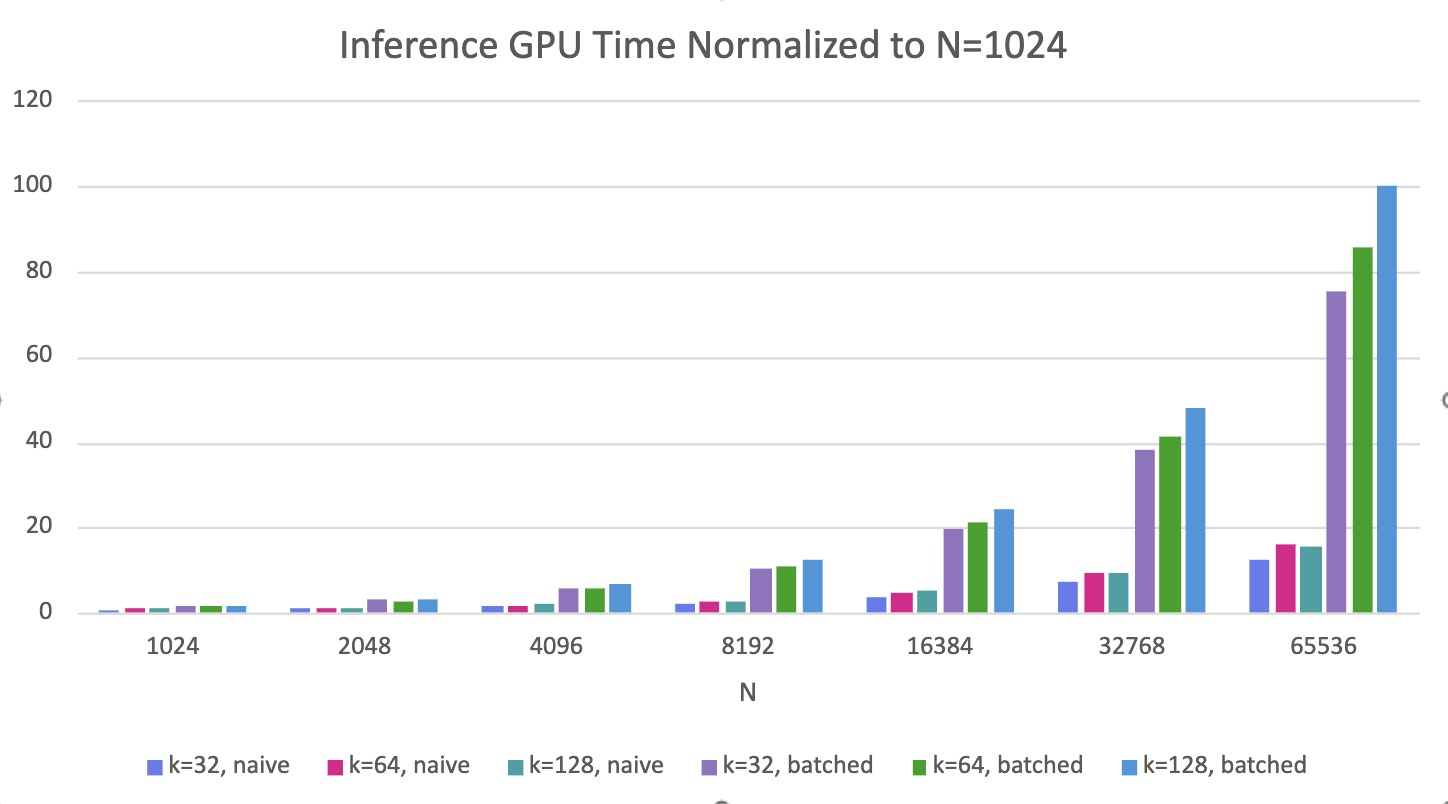
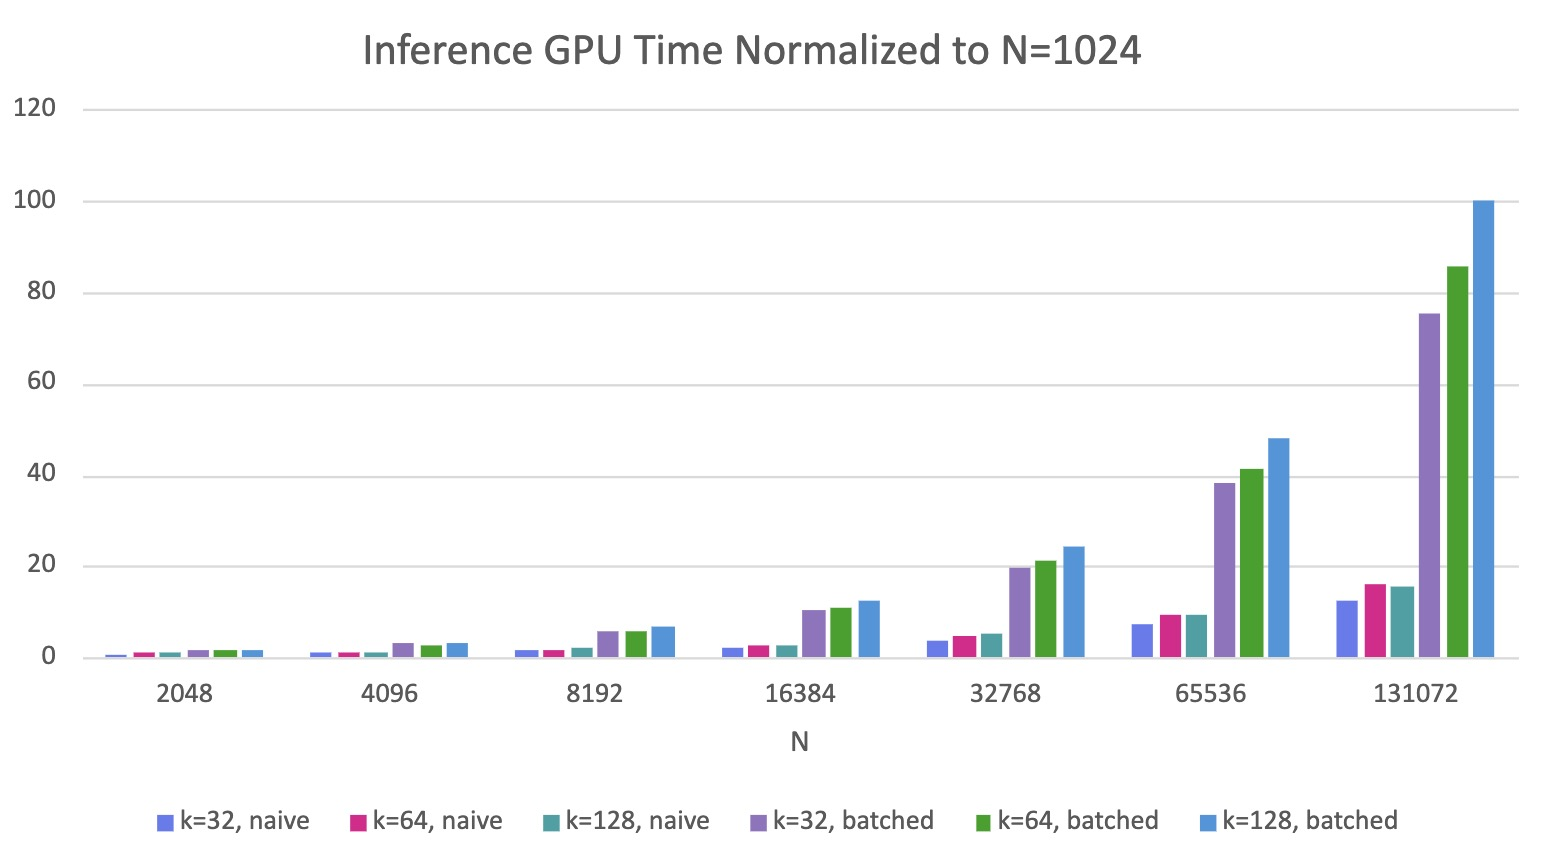
Update Llama performance analysis with new normalized GPU execution time plots for training and inference

diff --git a/src/content/posts/scaling_performance_of_cublas_gemms/scaling_performance_of_cublas_gemms.md b/src/content/posts/scaling_performance_of_cublas_gemms/scaling_performance_of_cublas_gemms.md
@@ -15,8 +15,8 @@ Under Construction!
 Attention layer is among the most time-consuming part of any LLM. It consists of multiple matrix multiplications that are theoretically bottlenecked by tensor core throughput according to the roofline model from this post[link]. However, our result reveals that the memory throughput instead is constraining the performance of the attention layer. This discrepancy between theory and reality leads to this post. 
 
 GEMM(i.e. General Matrix Multiplication) is always one of the hottest topic in HPC. The transformer architecture made this even more stark: every attention layer, every feed-forward block, every projection is fundamentally a GEMM, therefore even small amount of improvement on GEMM can cause huge impact on overall system performance. With the increasing problem size, the performance usually starts to be limited by either the memory throughput or compute resources. Through this post, I will introduce the GEMM performance of various matrix size, shape and batch size, revealing the bottleneck in different conditions. The attention layer GEMM performance of the popular open-source model, llama3, will also be provided for practical analysis.   
-# Performance Analysis
-## Setup
+
+# Setup
 We will profile 4 ways of computing GEMM using cuBLAS. To compare apples to apples, it is ensured that every cuBLAS GEMM perform the same amount of FLOPs with FP32 and running on the same device, which is an A100 (40GB, SXM4).
 
 ## Single Big GEMM
@@ -126,8 +126,7 @@ CHECK_CUBLAS(cublasSgemmStridedBatched(handle,
                                         d_C, m, stride_C,
                                         batch_size));
 ```
-
-## $k$ batches of $(N \times N) \times (N \times N)$
+# $k$ batches of $(N \times N) \times (N \times N)$
 We begin with square matrix multiplications, the simplest and most symmetric case. In batched methods, we perform k independent multiplications of $(N \times N) \times (N \times N)$. To ensure fair comparison across all four methods, we configure each to perform identical total FLOPs:
 
 | Method | Configuration | Total FLOPs |
@@ -163,10 +162,10 @@ Next we will take a more nuanced look at the GPU execution time. Since GPU execu
 
 Here we provide the ratio of total SASS instructions issued by the SMSP. It reveals a similar pattern to the GPU time: when $N=1024$, Naive GEMM issues more SASS instructions, whereas when $N=2560$ and $N=4096$, Naive GEMM issues less. This indicates that cuBLAS likely selects different algorithms or memory strategies for different values of $N$ heuristically, with a transition point occurring between $N=1024$ and $N=2560$. From $N=2560$ to $N=4096$, the instruction ratio of Batched GEMM and Strided Batched GEMM both reaches ~0.9, implying that they are using the same algorithm under the hood when L2 can't store any of the matrix. 
 
-## Practical Workload - llama 3.1
+# Practical Workload - llama 3.1
 To contextualize our analysis within realistic scenarios, we evaluate GEMM scaling performance across the attention mechanism ($QK^T$) of llama3.1-8B, llama3.1-70B, and llama3.1-405B variants.
 
-### Arithmetic Intensity Analysis
+## Arithmetic Intensity Analysis
 Arithmetic Intensity (AI) quantifies the computational density, more specifically, FLOPs per byte. High AI signifies compute-bound kernels where computation dominates, whereas low AI indicates memory-bound kernels where data movement constrains performance. This metric is essential for understanding the kernel behavior, therefore we will provide AI for both training and inference phases before going into full details.
 
 The matrix dimensions and attention head configuration are enumerated below for both Training and Inference:
@@ -207,7 +206,7 @@ The computed AI values across varying T are tabulated below:
 
  It is noteworthy that the AI of Inference reaches merely ~0.992, representing over 100× lower density than its training counterpart. As T scales, both training and inference AI converge toward 128 and 0.992 respectively. These metrics demonstrate that theotically, inference operates under severe memory bandwidth constraints, with computational resources substantially underutilized.
 
-### Training
+## Training
 We collected the training GPU execution time and normalized the values with the corresponding $N=1024$ value. Since the Batched GEMM and Strided Batched GEMM have similar results, we will only show the Batched GEMM in the plot for simplicity.
 
 ![llama_training_normalized_gpu_exec_time](llama_training_normalized_gpu_exec_time.jpg)
@@ -220,13 +219,13 @@ The GPU execution time scales significantly with $N$, but barely changes among d
 
 Despite of the advantage of GPU time on small $N$, the performance of Naive GEMM drastically dropped if taking launch overhead into account. It is about 35x to 147x slower than the Batched GEMM with varying $k$, which is as expected because as $k$ scales, the number of kernel launched will increase proportionally, accumulating the launch overhead.
 
-### Inference
+## Inference
 
 ![llama_inference_normalized_gpu_exec_time](llama_inference_normalized_gpu_exec_time.jpg)
 
-![llama_training_gpu_time_ratio](llama_training_gpu_time_ratio.jpg)
+![llama_inference_gpu_time_ratio](llama_inference_gpu_time_ratio.jpg)
 
-In inference, similar trend still persists. The GPU execution time scales with $N$, but the speed slows down. For example, in inference, the Batched GEMM with $k=32$ only takes 1.8x, 3x and 5.6x of GPU time spent by $N=1024$ for $N=2048, 4096, 8192$ respectively, whereas the in training, the numbers increases to $3.3x, 13x and 53x$ with same $N and k$, probably because of the smaller dimension of $Q$(from $T \times 128$ to $1 \times 128$) in inference causing less pressure on memory traffic. Similarly, the Batched GEMM also spent more GPU time compared to the Naive GEMM, but the initial gap at small $N$ enlarges. When $N=1024$, the Naive GEMM spent 7.3x~8.6x more time relative to the Batched GEMM in inference. However, this figure is only 2.5x in training. As $N$ keep increasing, the gap between two techniques still shrinks to 0, but in inference, but the changing rate slows down.
+In inference, similar trend still persists. The GPU execution time scales with $N$, but the speed slows down. For example, in inference, the Batched GEMM with $k=32$ only takes 1.8x, 3x and 5.6x of GPU time spent by $N=1024$ for $N=2048, 4096, 8192$ respectively, whereas the in training, the numbers increases to $3.3x, 13x and 53x$ with same $N and k$, probably because of the smaller dimension of $Q$(from $T \times 128$ to $1 \times 128$) in inference causing less pressure on memory traffic. Similarly, the Batched GEMM also spent more GPU time compared to the Naive GEMM, but the initial gap at small $N$ enlarges. When $N=1024$, the Naive GEMM spent 7.3x~8.6x more time relative to the Batched GEMM in inference. However, this figure is only 2.5x in training. As $N$ keep increasing, the gap between two techniques still shrinks to 0, but in inference, the changing rate slows down.
 
 
 
